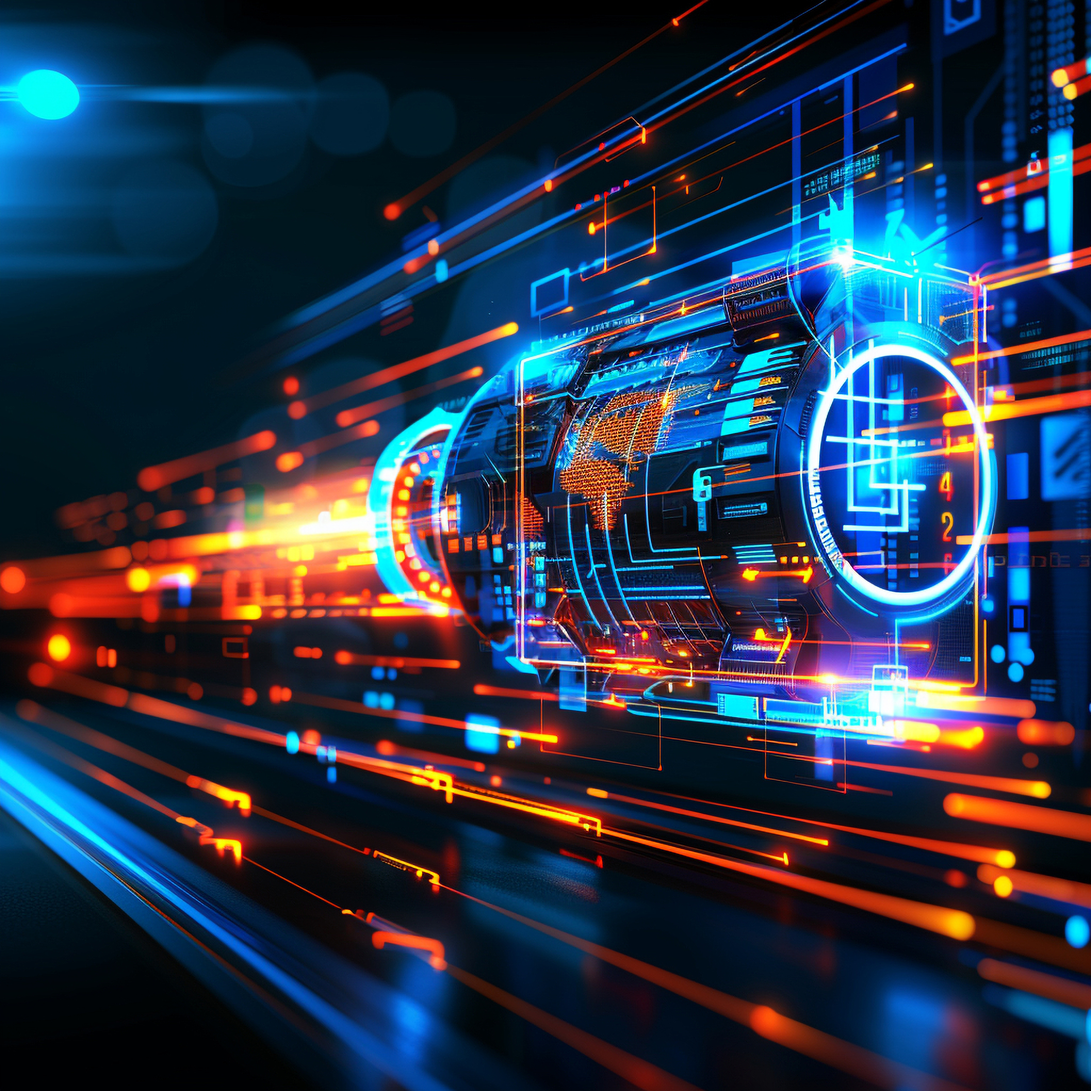
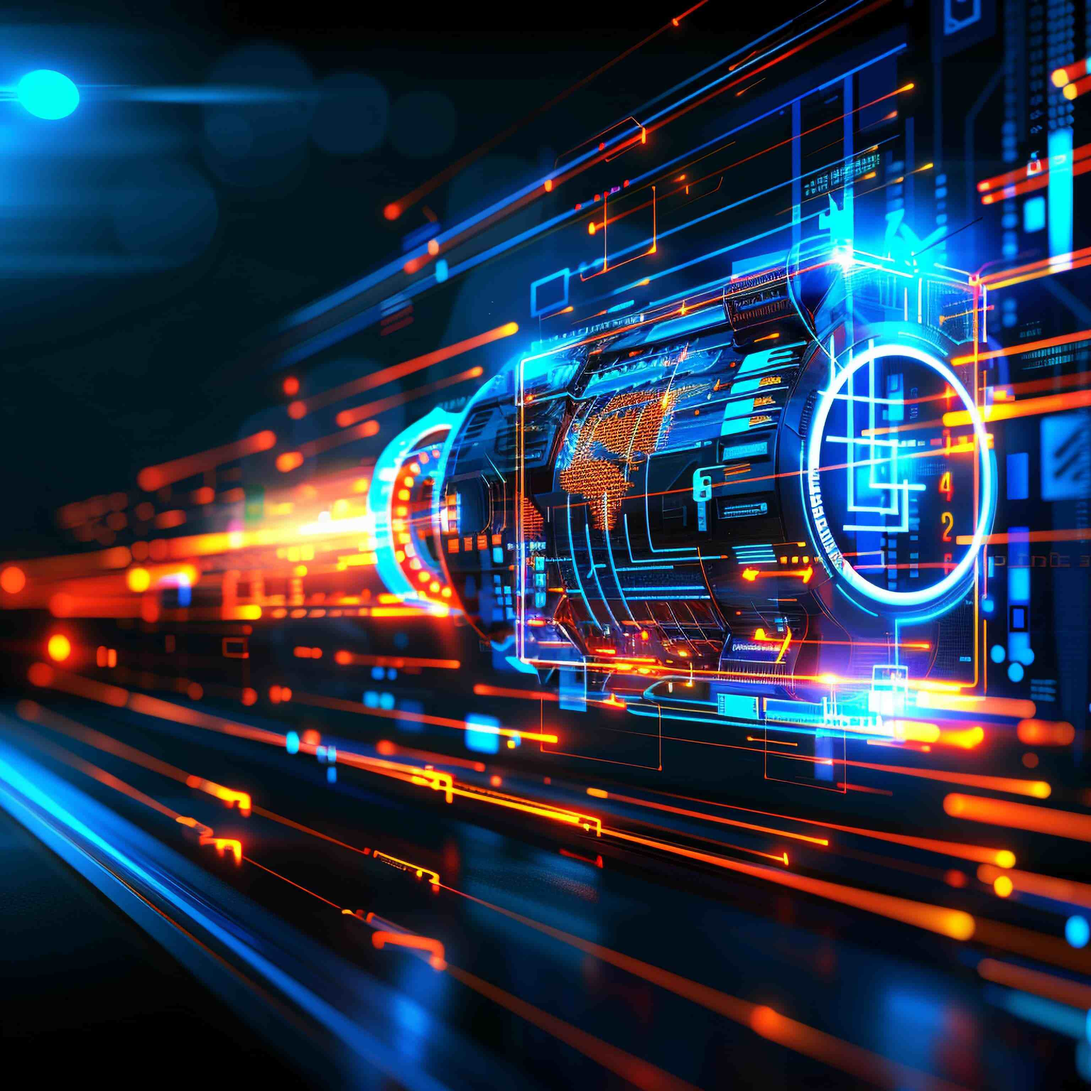
hero section corrections

diff --git a/index.html b/index.html
@@ -330,7 +330,7 @@
                             </div>
                             <div class="prod_cta">
                                 <span>Learn more</span>
-                                <span>
+                                <span class="learn_cta">
                                     <img width="14" height="14" src="/assets/img/chevron-right.png" alt="">
                                 </span>
                             </div>
@@ -345,7 +345,7 @@
                             </div>
                             <div class="prod_cta">
                                 <span>Learn more</span>
-                                <span>
+                                <span class="learn_cta">
                                     <img width="14" height="14" src="/assets/img/chevron-right.png" alt="">
                                 </span>
                             </div>
@@ -360,7 +360,7 @@
                             </div>
                             <div class="prod_cta">
                                 <span>Learn more</span>
-                                <span>
+                                <span class="learn_cta">
                                     <img width="14" height="14" src="/assets/img/chevron-right.png" alt="">
                                 </span>
                             </div>
@@ -375,8 +375,8 @@
                                 </p>
                             </div>
                             <div class="prod_cta">
-                                <span>Learn more</span>
-                                <span>
+                                <span class="span_text">Learn more</span>
+                                <span class="learn_cta">
                                     <img width="14" height="14" src="/assets/img/chevron-right.png" alt="">
                                 </span>
                             </div>
@@ -390,7 +390,7 @@
                             </div>
                             <div class="prod_cta">
                                 <span>Learn more</span>
-                                <span>
+                                <span class="learn_cta">
                                     <img width="14" height="14" src="/assets/img/chevron-right.png" alt="">
                                 </span>
                             </div>

diff --git a/assets/css/home.css b/assets/css/home.css
@@ -8,15 +8,13 @@
 
     /* background: linear-gradient(180deg, rgb(7 51 126) 40%, rgb(70 181 255 / 40%) 100%); */
     /* background: linear-gradient(rgb(0, 57, 94) 0%, rgb(0, 24, 40) 100%); */
-    background: url(/assets/img/cosmic-environment-with-colorful-neon-laser-lights-perfect-digital-wallpaper.jpg) no-repeat;
-    background-size: cover;
     display: flex;
     align-items: center;
     justify-content: center;
     flex-direction: column;
     padding: 125px 0px;
     min-height: 630px;
-    background-position: bottom;
+    background-color: #000;
 }
 /* #hero::before{
     filter: brightness(0.1) saturate(0%);
@@ -40,8 +38,11 @@
     left: 0;
     width: 100%;
     height: 100%;
-    background: rgba(51,51,51,.5);
     z-index: 1;
+    background: url(/assets/img/cosmic-environment-with-colorful-neon-laser-lights-perfect-digital-wallpaper.jpg) no-repeat;
+    background-size: cover;
+    filter: blur(8px);
+    -webkit-filter: blur(8px)
 }
 @media (min-width: 1024px) {
     #hero {
@@ -520,13 +521,36 @@
     padding: 2rem;
     border-radius: 0.5rem;
     background-color: #fff;
+    transition: all 0.5s ;
     /* border: 1px solid rgb(0 0 0 / 20%); */
 }
+
+#our_products .card_wrapper .solutions_cards .learn_cta{
+    border-radius: 50%;
+    padding: 2px;
+    background: #fff;
+    display: flex;
+    align-items: center;
+    justify-content: center;
+    overflow: hidden;
+}
 #our_products .card_wrapper .solutions_cards:hover{
+    transition: all 0.5s ;
+    background: linear-gradient(244deg, rgb(10 0 73) 40%, rgb(21 0 49) 50%);
+    transform: scale(1.1);
     box-shadow: 0px 0px 1.5965277777777778vw 0px rgba(0, 0, 0, 0.09);
+}
+#our_products .card_wrapper .solutions_cards:hover h4,
+#our_products .card_wrapper .solutions_cards:hover span,
+#our_products .card_wrapper .solutions_cards:hover p{
+    color: #fff;
+    transition: all 0.5s ;
 }
 #our_products .card_wrapper .solutions_cards .prod_cta{
     margin-top: 1rem;
+    display: flex;
+    align-items: center;
+    gap: 0.5rem;
 }
 
 #our_products h2 {

diff --git a/assets/css/products.css b/assets/css/products.css
@@ -10,9 +10,10 @@
     display: flex;
     align-items: center;
     min-height: 630px;
-    background: linear-gradient(180deg, rgb(7 51 126) 40%, rgb(70 181 255 / 40%) 100%);
-    /* background: linear-gradient(rgb(0, 57, 94) 0%, rgb(0, 24, 40) 100%); */
+    /* background: linear-gradient(180deg, rgb(7 51 126) 40%, rgb(70 181 255 / 40%) 100%); */
+    background: linear-gradient(rgb(0, 57, 94) 0%, rgb(0, 24, 40) 100%);
 }
+
 #product_hero .img_wrapper img{
     border-radius: 20px;
 }
@@ -296,4 +297,61 @@
         width: 16px;
         height: 16px;
     }
+}
+
+/* seperate bg for hero section */
+#product_hero.clonos_twin::before {
+    position: absolute;
+    content: '';
+    top: 0;
+    left: 0;
+    width: 100%;
+    height: 100%;
+    background: url(/assets/img/products/Digital-twin-hero.jpeg) no-repeat;
+    background-size: cover;
+    filter: blur(18px);
+}
+#product_hero.ar_assits::before {
+    position: absolute;
+    content: '';
+    top: 0;
+    left: 0;
+    width: 100%;
+    height: 100%;
+    background: url(/assets/img/products/AR-Hero.JPEG) no-repeat;
+    background-size: cover;
+    filter: blur(18px);
+}
+#product_hero.process_management::before {
+    position: absolute;
+    content: '';
+    top: 0;
+    left: 0;
+    width: 100%;
+    height: 100%;
+    background: url(/assets/img/products/process-hero.jpeg) no-repeat;
+    background-size: cover;
+    filter: blur(18px);
+}
+#product_hero.saas_platform::before {
+    position: absolute;
+    content: '';
+    top: 0;
+    left: 0;
+    width: 100%;
+    height: 100%;
+    background: url(/assets/img/products/Saas.jpeg) no-repeat;
+    background-size: cover;
+    filter: blur(18px);
+}
+#product_hero.vr_ots::before {
+    position: absolute;
+    content: '';
+    top: 0;
+    left: 0;
+    width: 100%;
+    height: 100%;
+    background: url(/assets/img/products/VR-Hero.JPEG) no-repeat;
+    background-size: 150%;
+    filter: blur(18px);
 }

diff --git a/assets/css/about_us.css b/assets/css/about_us.css
@@ -1,23 +1,27 @@
-#about_us_hero{
-    /* background: linear-gradient(180deg, rgb(7 51 126) 40%, rgb(70 181 255 / 40%) 100%); */
-    background: url(/assets/img/3334896.jpg) no-repeat;
-    min-height: 630px;
+#about_us_hero, #pricing_hero{
+    background: linear-gradient(244deg, rgb(10 0 73) 40%, rgb(21 0 49) 50%);
     display: flex;
     align-items: center;
     position: relative;
     background-attachment: fixed;
     background-position: right;
+    /* background: #000; */
+    /* min-height: 630px; */
 }
-/* #about_us_hero::before{
+#about_us_hero.about_us::before, #pricing_hero.about_us::before{
     position: absolute;
     content: '';
     top: 0;
     left: 0;
     width: 100%;
     height: 100%;
-    background: rgba(51,51,51,.7);
+    background: url(/assets/img/3334896.jpg) no-repeat;
+    /* background-size: cover; */
+    background-position: right;
     z-index: 1;
-} */
+    filter: blur(8px);
+}
+
 #about_us_hero .container{
     z-index: 10;
 }

diff --git a/products/saas-platform/index.html b/products/saas-platform/index.html
@@ -91,7 +91,7 @@
 
     <!-- ======= Hero Section ======= -->
     <main id="main_tag">
-        <section id="product_hero" class="section_spacing">
+        <section id="product_hero" class="section_spacing saas_platform">
             <div class="container" data-aos="zoom-in" data-aos-delay="100">
                 <div class="row align-items-center">
                     <div class="col-lg-6">
@@ -109,7 +109,7 @@
                     </div>
                     <div class="col-lg-6">
                         <div class="img_wrapper">
-                            <img width="100%" src="/assets/img/products/Saas.JPEG" alt="Hero-image">
+                            <img width="100%" src="/assets/img/products/Saas.jpeg" alt="Hero-image">
                         </div>
                     </div>
                 </div>

diff --git a/about-us/index.html b/about-us/index.html
@@ -92,7 +92,7 @@
     </header>
     <!-- End Header -->
     <main id="main_tag">
-        <section id="about_us_hero" class="section_spacing">
+        <section id="about_us_hero" class="section_spacing about_us">
             <div class="hero-container container text-center" data-aos="zoom-in" data-aos-delay="100">
                 <div class="row">
                     <div class="col-lg-8 m-auto">
@@ -112,7 +112,7 @@
                 </div>
             </div>
         </section>
-        <section id="what_we_do" class="section_spacing">
+        <section id="what_we_do" class="section_spacing ">
             <div class="container" data-aos="fade-up" data-aos-delay="100">
                 <div class="row">
                     <div class="col-lg-12 m-auto">

diff --git a/assets/css/pricing.css b/assets/css/pricing.css
@@ -1,5 +1,27 @@
 #pricing_hero{
-    background: linear-gradient(rgb(0, 57, 94) 0%, rgb(0, 24, 40) 100%);
+    background: linear-gradient(244deg, rgb(10 0 73) 40%, rgb(21 0 49) 50%);
+    display: flex;
+    align-items: center;
+    position: relative;
+    background-attachment: fixed;
+    background-position: right;
+    /* background: #000; */
+    z-index: 2;
+}
+#pricing_hero.pricing_hero::before{
+    position: absolute;
+    content: '';
+    top: 0;
+    left: 0;
+    width: 100%;
+    height: 100%;
+    background: url(/assets/img/3334896.jpg) no-repeat;
+    background-position: right;
+    z-index: 1;
+    filter: blur(8px);
+}
+#pricing_hero .container{
+    z-index: 99;
 }
 #pricing_hero .content_wrapper h1{
     color: #fff;

diff --git a/careers/index.html b/careers/index.html
@@ -92,7 +92,7 @@
     </header>
     <!-- End Header -->
     <main id="main_tag">
-        <section id="about_us_hero" class="section_spacing">
+        <section id="about_us_hero" class="section_spacing about_us">
             <div class="hero-container container text-center" data-aos="zoom-in" data-aos-delay="100">
                 <div class="row">
                     <div class="col-lg-8 m-auto">

diff --git a/products/process-management/index.html b/products/process-management/index.html
@@ -91,7 +91,7 @@
 
     <!-- ======= Hero Section ======= -->
     <main id="main_tag">
-        <section id="product_hero" class="section_spacing">
+        <section id="product_hero" class="section_spacing process_management">
             <div class="container" data-aos="zoom-in" data-aos-delay="100">
                 <div class="row align-items-center">
                     <div class="col-lg-6">

diff --git a/pricing/index.html b/pricing/index.html
@@ -91,7 +91,7 @@
 
     <!-- ======= Hero Section ======= -->
     <main id="main_tag">
-        <section id="pricing_hero" class="section_spacing">
+        <section id="pricing_hero" class="section_spacing pricing_hero">
             <div class="container">
                 <div class="row">
                     <div class=" col-lg-8 content_wrapper text-center" data-aos="z" data-aos-delay="100">

diff --git a/products/3D-twin/index.html b/products/3D-twin/index.html
@@ -91,7 +91,7 @@
 
     <!-- ======= Hero Section ======= -->
     <main id="main_tag">
-        <section id="product_hero" class="section_spacing">
+        <section id="product_hero" class="section_spacing clonos_twin">
             <div class="container" data-aos="zoom-in" data-aos-delay="100">
                 <div class="row align-items-center">
                     <div class="col-lg-6">

diff --git a/products/ar-assist/index.html b/products/ar-assist/index.html
@@ -91,7 +91,7 @@
 
     <!-- ======= Hero Section ======= -->
     <main id="main_tag">
-        <section id="product_hero" class="section_spacing">
+        <section id="product_hero" class="section_spacing ar_assits">
             <div class="container" data-aos="zoom-in" data-aos-delay="100">
                 <div class="row align-items-center">
                     <div class="col-lg-6">
